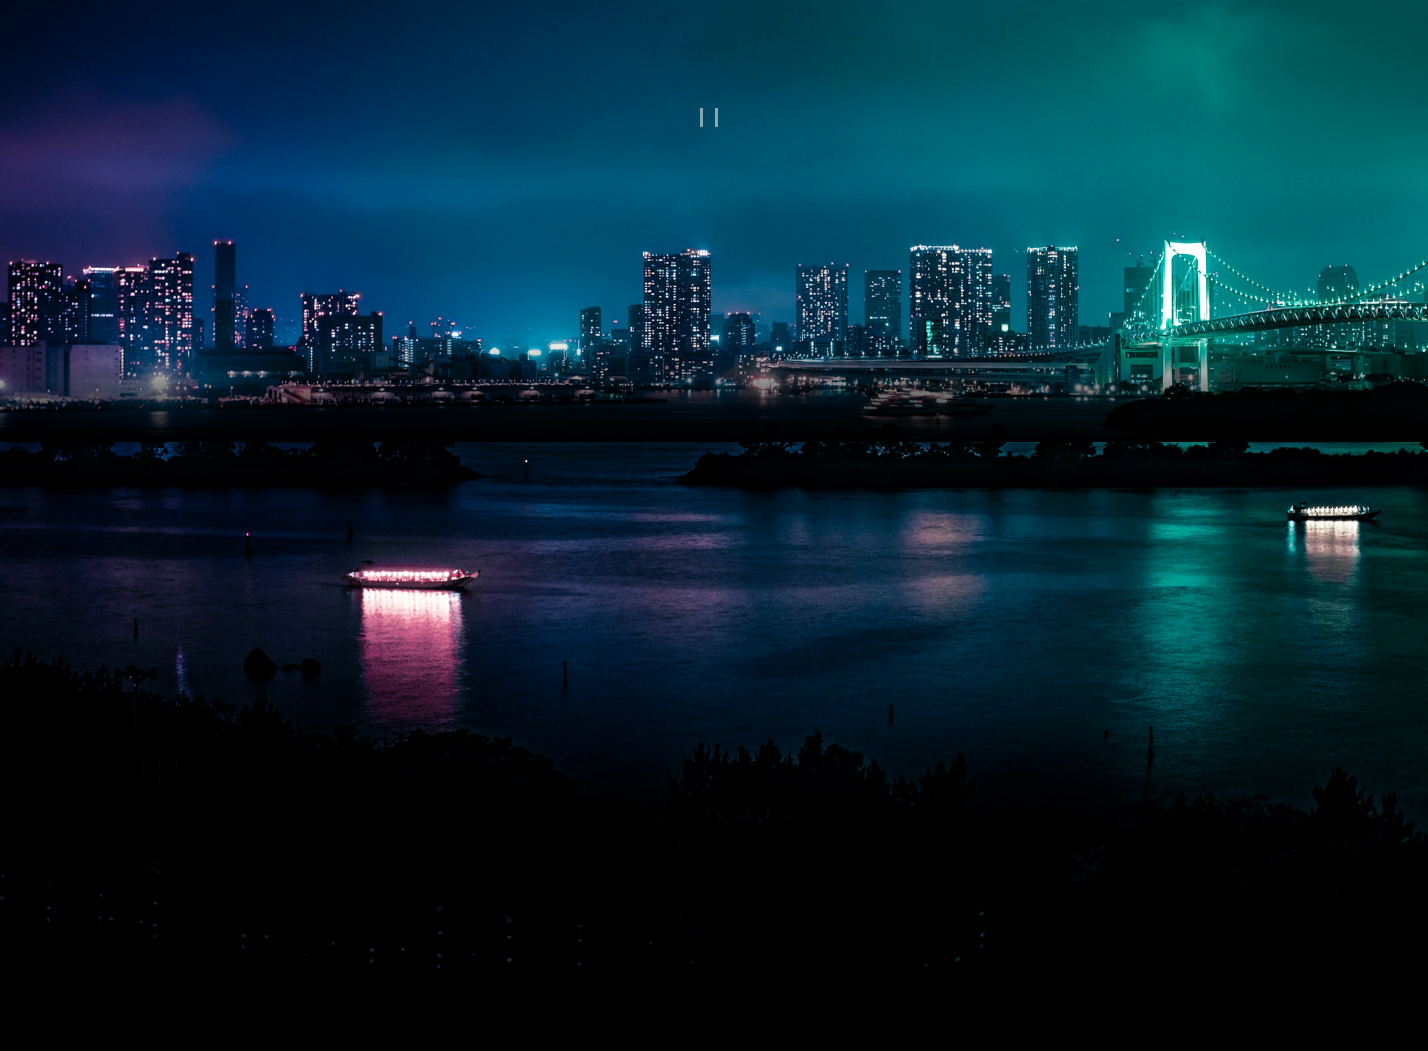
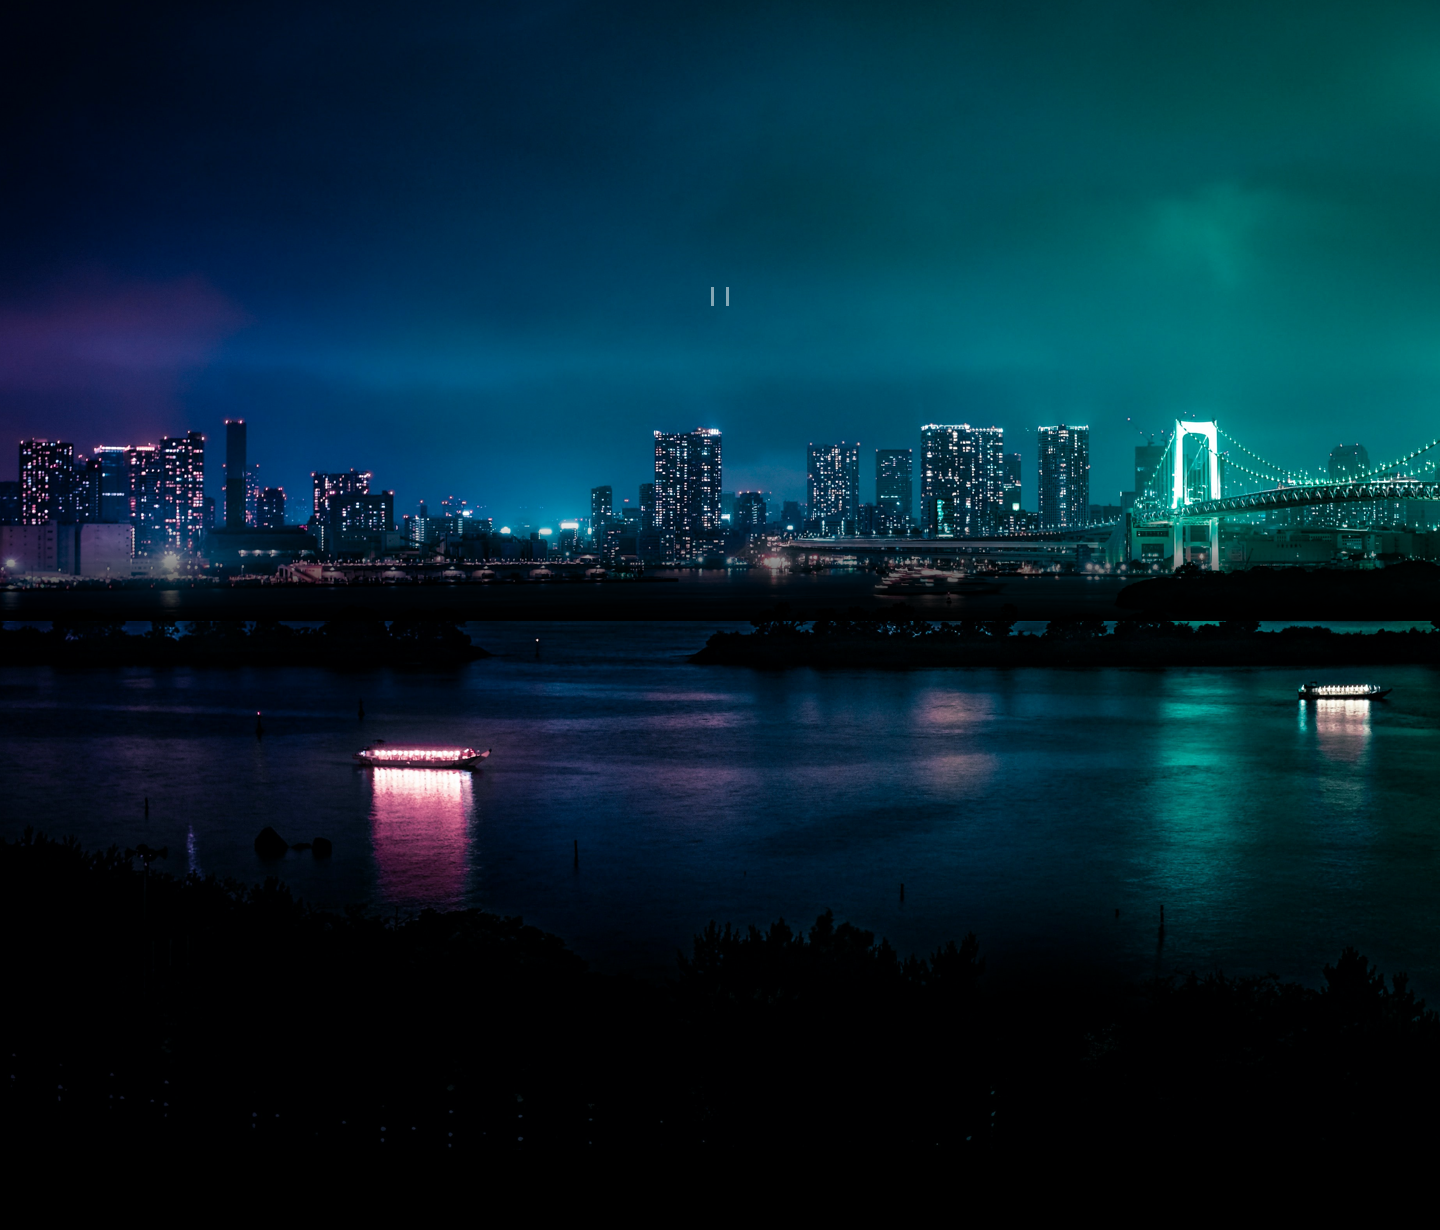
use original bg

diff --git a/css/main.css b/css/main.css
@@ -6,7 +6,7 @@
     /*min-height: 160vh;*/
     /*background-size: cover;*/
     color:#fff;
-    background-size:1920px;
+    background-size:1440px;
     background-color: #000000;
     /*margin: 0;*/
     /*padding: 0;*/
@@ -24,8 +24,16 @@
 
 
 }
-
 @media (max-width: 1920px) {
+    body {
+        zoom: calc(1920 / 1440);
+    }
+
+    .tronpg {
+        zoom: 1;
+    }
+}
+@media (max-width: 1440px) {
     body {
         zoom: 1;
     }
